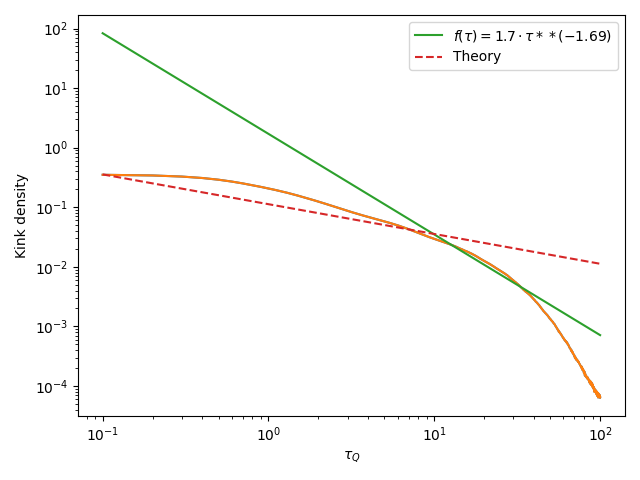
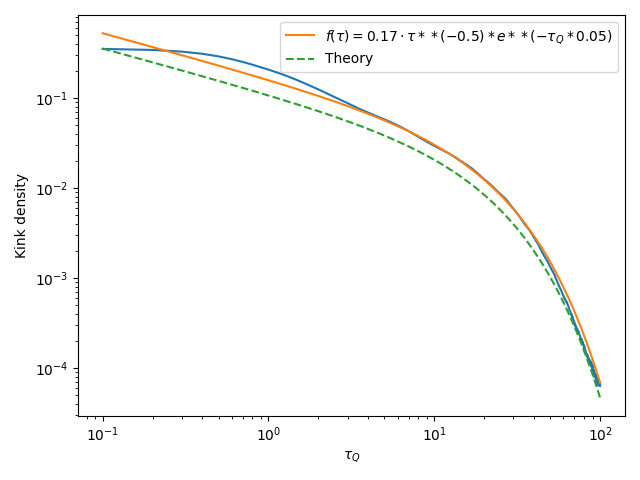
Added exponential factor to fit and parallel bias magnetic field to model

diff --git a/src/dynamics.py b/src/dynamics.py
@@ -10,9 +10,10 @@ from scipy.optimize import curve_fit
 import pickle
 
 
-def evolve_system(N, dt, h, J, trotter_steps, obs_Z, obs_XX, gpu=False, linear_increase=True, samples=1, inverse=False):
+def evolve_system(N, dt, h, J, trotter_steps, obs_Z, obs_XX, gpu=False, linear_increase=True, periodic=False, samples=1,
+                  inverse=False, bias=None):
     # Initialization
-    ising_model_evolution = IsingEvol(N, dt, h, J, gpu=gpu, inverse=inverse)
+    ising_model_evolution = IsingEvol(N, dt, h, J, gpu=gpu, inverse=inverse, bias=bias, periodic=periodic)
     ising_model_evolution.observables(obs_Z, obs_XX)
 
     # Execution
@@ -28,8 +29,9 @@ def iteration_kinks(ising_model_evolution, steps, samples, h=None):
     return [nok_mean, nok_sig]
 
 
-def estimate_kinks_tau_dependency(N, dt, h, J, trotter_steps, gpu=False, samples=1, periodic=False, inverse=False):
-    ising_model_evolution = IsingEvol(N, dt, h, J, gpu=gpu, periodic=periodic, inverse=inverse)
+def estimate_kinks_tau_dependency(N, dt, h, J, trotter_steps, gpu=False, samples=1, periodic=False, inverse=False,
+                                  bias=None):
+    ising_model_evolution = IsingEvol(N, dt, h, J, gpu=gpu, periodic=periodic, inverse=inverse, bias=bias)
     ising_model_evolution.progress = False
     steps = range(1, trotter_steps + 1)
     tau = dt * np.array(steps)
@@ -41,17 +43,18 @@ def estimate_kinks_tau_dependency(N, dt, h, J, trotter_steps, gpu=False, samples
     kdens_mean = nok[:, 0]
     kdens_sig = nok[:, 1]
 
-    filename = f'kinks_N{N}_J{J}_h{h}_dt{dt}_steps{trotter_steps}_periodic{periodic}_inv{inverse}'
-    plot_dependency(filename, np.array(tau), np.array(kdens_mean), np.array(kdens_sig))
+    filename = f'kinks_N{N}_J{J}_h{h}_dt{dt}_steps{trotter_steps}_periodic{periodic}_inv{inverse}_bias{bias}'
+    # plot_dependency(filename, np.array(tau), np.array(kdens_mean), np.array(kdens_sig))
     things_to_save = [tau, kdens_mean, kdens_sig]
 
     with open("../data/" + filename, "wb") as f:
         pickle.dump(things_to_save, f)
 
 
-def estimate_kinks_magnetic_dependency(N, dt, h, J, trotter_steps, gpu=False, samples=1, periodic=False, inverse=False):
+def estimate_kinks_magnetic_dependency(N, dt, h, J, trotter_steps, gpu=False, samples=1, periodic=False, inverse=False,
+                                       bias=None):
     h_array = np.linspace(0, h, 100)
-    ising_model_evolution = IsingEvol(N, dt, h, J, gpu=gpu, periodic=periodic, inverse=inverse)
+    ising_model_evolution = IsingEvol(N, dt, h, J, gpu=gpu, periodic=periodic, inverse=inverse, bias=bias)
     ising_model_evolution.progress = False
 
     iteration_kinks(ising_model_evolution, trotter_steps, 1, 0)
@@ -67,7 +70,7 @@ def estimate_kinks_magnetic_dependency(N, dt, h, J, trotter_steps, gpu=False, sa
     kdens_mean = nok[:, 0]
     kdens_sig = nok[:, 1]
 
-    filename = f'kinks_N{N}_J{J}_h_max{h}_dt{dt}_steps{trotter_steps}_periodic{periodic}_inv{inverse}'
+    filename = f'kinks_N{N}_J{J}_h_max{h}_dt{dt}_steps{trotter_steps}_periodic{periodic}_inv{inverse}_bias{bias}'
     plot_dependency(filename, np.array(h_array), np.array(kdens_mean), np.array(kdens_sig), xlabel="Magnetic field h")
     # plot_dependency(filename, np.array(h_array), np.array(nok), np.array(trotter_steps * [0]),
     #                 xlabel="Magnetic field h")
@@ -77,27 +80,46 @@ def estimate_kinks_magnetic_dependency(N, dt, h, J, trotter_steps, gpu=False, sa
         pickle.dump(things_to_save, f)
 
 
-def plot_dependency(filename, tau, kdens_mean, kdens_sig, plot_fit=False, a=0, e=0, xlabel=None):
+def plot_dependency(filename, tau, kdens_mean, kdens_sig, plot_fit=False, a=0, e=0, g=0, xlabel=None, data_start=0):
     plt.plot(tau, kdens_mean)
-    print(e)
+    print(f"exponent: {e}")
+    print(f"parallel magnetic: {(g / 6.89) ** (15 / 16)}")
     if plot_fit:
-        plt.plot(tau, kink_density_theory(tau, a, e),
-                 label=f"$f(\\tau)={round(a, 2)} \\cdot \\tau ** ({round(e, 2)})$")
+        fit = kink_density_theory(tau, a, e, g)
+        figure, ax = plt.subplots(2, figsize=(8, 6), gridspec_kw={'height_ratios': [2, 1]})
+        ax[1].set_xlabel(xlabel or '$\\tau_Q$')
+        ax[0].set_ylabel('Kink density')
+        ax[1].set_ylabel("Residuals")
+        ax[0].plot(tau, kdens_mean)
+        ax[0].plot(tau, fit,
+                   label=f"$f(\\tau)={round(a, 2)} \\cdot \\tau ** ({round(e, 2)}) * e**(-\\tau_Q*{round(g, 2)})$")
+        ax[0].plot(tau, kink_density_theory(tau, 1 / (2 * np.pi * np.sqrt(2)), -0.5, g), label="Theory", linestyle="--")
+        ax[1].plot(tau[data_start:], (kdens_mean - fit)[data_start:], label="Data - fit")
+        ax[1].axhline(0, color="red", linestyle="--")
+        ax[0].set_yscale("log")
+        ax[0].set_xscale("log")
+        ax[1].set_xscale("log")
 
-        plt.plot(tau, kink_density_theory(tau, 1 / (2 * np.pi * np.sqrt(2)), -0.5), label="Theory", linestyle="--")
+        ax[0].legend()
+        ax[1].legend()
+        ax[0].grid()
+        ax[1].grid()
+        plt.tight_layout()
+        plt.savefig("../figs/" + filename + ".png")
+    else:
+        plt.plot(tau, kdens_mean)
+        plt.fill_between(tau, kdens_mean - kdens_sig, kdens_mean + kdens_sig, alpha=0.2)
+        plt.xlabel(xlabel or '$\\tau_Q$')
+        plt.ylabel('Kink density')
+        plt.yscale("log")
+        plt.xscale("log")
+        plt.legend()
+        plt.tight_layout()
+        plt.savefig("../figs/" + filename + ".png")
 
-    plt.fill_between(tau, kdens_mean - kdens_sig, kdens_mean + kdens_sig, alpha=0.2)
-    plt.xlabel(xlabel or '$\\tau_Q$')
-    plt.ylabel('Kink density')
-    plt.yscale("log")
-    plt.xscale("log")
-    plt.legend()
-    plt.tight_layout()
-    plt.savefig("../figs/" + filename + ".png")
 
-
-def kink_density_theory(tau, a, e):
-    return a * tau ** e
+def kink_density_theory(tau, a, e, g):
+    return a * tau ** e * np.exp(-tau * g)
 
 
 def fit_kinks(tau, kinks, kinks_sigma):
@@ -136,6 +158,8 @@ if __name__ == '__main__':
                         default=0)
     parser.add_argument("-inv", "--inverse", help="1 for inverse magnetic field ramp h_0 -> 0 else 0 -> h_0", type=int,
                         default=0)
+    parser.add_argument("-b", "--bias", help="Bias for the parallel magnetic field. default: None", type=float,
+                        default=None)
 
     args = parser.parse_args()
 
@@ -146,24 +170,26 @@ if __name__ == '__main__':
     dt_ = args.dt  # time step
     obs_Z_ = [5, 6]
     obs_XX_ = [[4, 14], [5, 6]]
-    data_start = 100
+    data_start = 5
     gpu_usage = bool(args.gpu)
     samples_ = args.samples
     mode = args.mode
     periodic = bool(args.periodic)
     inverse = bool(args.inverse)
+    bias = args.bias
 
     if mode == 0:
         estimate_kinks_tau_dependency(N_, dt_, h_, J_, trotter_steps_, gpu=bool(args.gpu), samples=samples_,
-                                      periodic=periodic, inverse=inverse)
+                                      periodic=periodic, inverse=inverse, bias=bias)
 
-        filename = f"kinks_N{N_}_J{J_}_h{h_}_dt{dt_}_steps{trotter_steps_}_periodic{periodic}_inv{inverse}"
+        filename = f"kinks_N{N_}_J{J_}_h{h_}_dt{dt_}_steps{trotter_steps_}_periodic{periodic}_inv{inverse}_bias{bias}"
         tau, kinks_mean, kinks_sig = np.array(load_file("../data/" + filename))
         popt, pcov = fit_kinks(tau[data_start:], kinks_mean[data_start:], kinks_sig[data_start:] + 1e-15)
-        plot_dependency("../figs/" + filename, tau, kinks_mean, kinks_sig, plot_fit=True, a=popt[0], e=popt[1])
+        plot_dependency("../figs/" + filename, tau, kinks_mean, kinks_sig, plot_fit=True, a=popt[0], e=popt[1],
+                        g=popt[2], data_start=data_start)
     elif mode == 1:
         evolve_system(N_, dt_, h_, J_, trotter_steps_, obs_Z_, obs_XX_, gpu=bool(args.gpu), samples=samples_,
-                      periodic=periodic, inverse=inverse)
+                      periodic=periodic, inverse=inverse, bias=bias)
     elif mode == 2:
         estimate_kinks_magnetic_dependency(N_, dt_, h_, J_, trotter_steps_, gpu=bool(args.gpu), samples=samples_,
                                            periodic=periodic, inverse=inverse)

diff --git a/src/IsingEvolution.py b/src/IsingEvolution.py
@@ -6,9 +6,6 @@ from qiskit import QuantumCircuit
 from qiskit.quantum_info.operators import SparsePauliOp
 from qiskit_aer import Aer
 from itertools import product
-
-from qiskit_nature.second_q.hamiltonians.lattices import LineLattice, BoundaryCondition
-from qiskit_nature.second_q.hamiltonians import HeisenbergModel
 from scipy.sparse.linalg import eigsh
 
 log.basicConfig(level=log.INFO, filename="output.log")
@@ -17,10 +14,11 @@ backend = Aer.get_backend('aer_simulator_statevector')
 
 class IsingEvol():
 
-    def __init__(self, N, dt, h, J, gpu=False, periodic=False, inverse=False):
+    def __init__(self, N, dt, h, J, gpu=False, periodic=False, inverse=False, bias=None):
         self.N = N
         self.dt = dt
         self.h = h
+        self.bias_parallel = bias
         self.J = J
         self.periodic = periodic
         self.inverse = inverse
@@ -50,26 +48,21 @@ class IsingEvol():
 
     def groundState(self):
         log.info("Computing Ground state")
-        heisenberg_model = HeisenbergModel(LineLattice(num_nodes=self.N, boundary_condition=(
-            BoundaryCondition.PERIODIC if self.periodic else BoundaryCondition.OPEN)), (self.J, 0, 0), (0, 0, self.h))
-
-        iterator = heisenberg_model.second_q_op().terms()
 
         result = []
-        for term in iterator:
-            coeff = term[-1]
-            paulis = term[0]
 
-            pauli = paulis[0][0] * len(paulis)
-            positions = [term[1] for term in paulis]
-            result.append((pauli, positions, coeff))
+        for i in range(self.N - 1):
+            result.append(('XX', [i, i + 1], self.J))
 
-        # for i in range(self.N):
-        #     for j in range(i + 1, self.N):
-        #         result.append(('XX', [i, j], self.J / (np.abs(i - j) ** 6)))
-        #
-        # for i in range(self.N):
-        #     result.append(('Z', [i], self.h))
+        if self.periodic:
+            result.append(('XX', [0, self.N - 1], self.J))
+
+        for i in range(self.N):
+            result.append(('Z', [i], self.h))
+
+        if self.bias_parallel:
+            for i in range(self.N):
+                result.append(('X', [i], self.bias_parallel))
 
         matr = SparsePauliOp.from_sparse_list(result, num_qubits=self.N).to_matrix(sparse=True)
         eigval, eigvec = eigsh(matr, which="SA", k=1)
@@ -95,6 +88,11 @@ class IsingEvol():
 
     # Second order trotter formula
     def evolution_step(self, qc, step=1, proportion=1.0, sample_step=1, h=None):
+
+        if self.bias_parallel:
+            for idx in range(self.N):
+                qc.rx(self.bias_parallel * self.dt, idx)
+
         for idx in range(self.N):
             qc.rz((h or self.h) * self.dt * proportion, idx)
 
@@ -104,12 +102,12 @@ class IsingEvol():
         if self.periodic:
             qc.rxx(2 * self.J * self.dt, self.N - 1, 0)
 
-        # for i in range(self.N):
-        #     for j in range(i + 1, self.N):
-        #         qc.rxx(2 * self.J * self.dt, i, j)
-
         for idx in range(self.N):
             qc.rz((h or self.h) * self.dt * proportion, idx)
+
+        if self.bias_parallel:
+            for idx in range(self.N):
+                qc.rx(self.bias_parallel * self.dt, idx)
 
         if step % sample_step == 0:
             # Measurement in X-Basis
